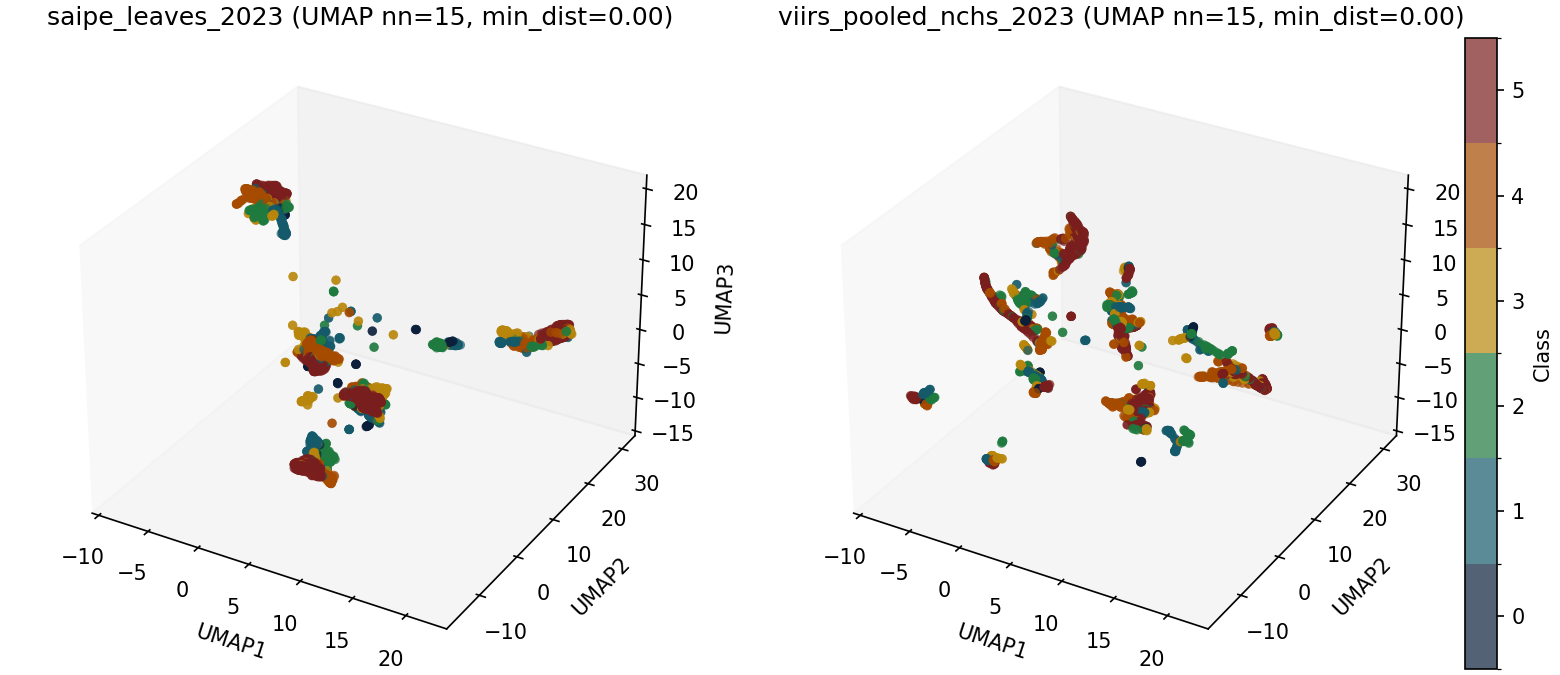
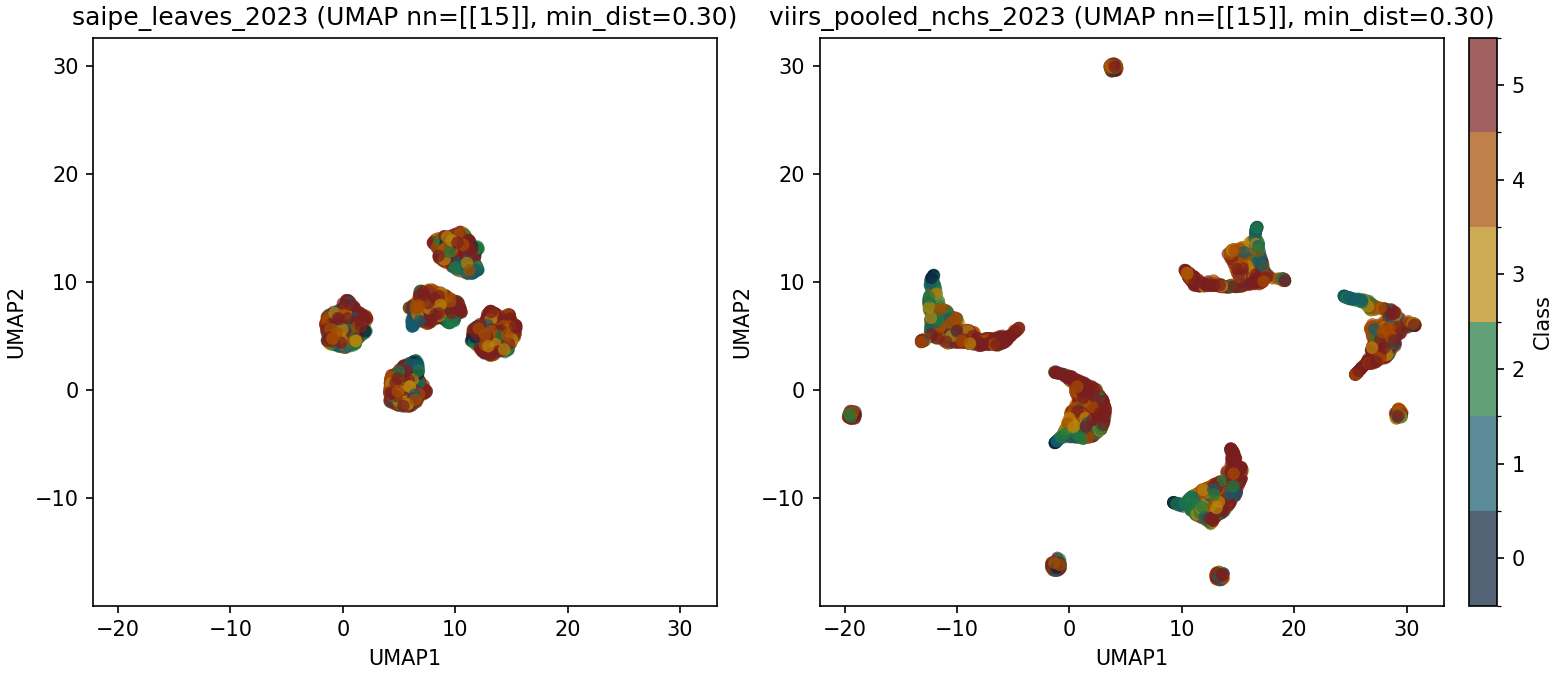
Adjusted visualization to 2d projection. Much clearer results show viirs has ordinal structure while SAIPE clusters (most likely socioeconomics dominates most ordinal structure)

diff --git a/testbench/plots.py b/testbench/plots.py
@@ -145,15 +145,15 @@ def build_embedding_data(*, embedding_dir: str | None = None, embedding_paths=No
         else: 
             name = _mat_str_vector(name)[0]
 
-        n_neighbors = mat.get("n_neighbors")
-        min_dist    = mat.get("min_dist")
+        n_neighbors = mat["n_neighbors"]
+        min_dist    = mat["min_dist"]
 
         entries.append({
             "name": name, 
             "coords": coords,
             "labels": labels,
-            "n_neighbors": int(n_neighbors[0]),
-            "min_dist": int(min_dist[0])
+            "n_neighbors": n_neighbors,
+            "min_dist": min_dist
         })
 
     return {"embeddings": entries}
@@ -412,7 +412,7 @@ def plot_embedding_umap(data):
     if not entries: 
         raise ValueError("no embedding PCA data to plot")
 
-    all_coords = np.vstack([e["coords"][:, :3] for e in entries])
+    all_coords = np.vstack([e["coords"][:, :2] for e in entries])
     mins = all_coords.min(axis=0)
     maxs = all_coords.max(axis=0)
     pad  = 0.05 * (maxs- mins + 1e-9)
@@ -423,7 +423,7 @@ def plot_embedding_umap(data):
     fig = plt.figure(figsize=(5.2 * n, 4.5), constrained_layout=True)
 
     for i, item in enumerate(entries, start=1): 
-        coords = np.asarray(item["coords"][:, :3])
+        coords = np.asarray(item["coords"][:, :2])
         labels = np.asarray(item["labels"]).reshape(-1)
         uniq   = np.unique(labels)
         idx    = np.searchsorted(uniq, labels)
@@ -431,16 +431,15 @@ def plot_embedding_umap(data):
         cmap   = ListedColormap(palette) 
         norm   = BoundaryNorm(np.arange(len(palette) + 1) - 0.5, len(palette))
 
-        ax     = fig.add_subplot(1, n, i, projection="3d")
+        ax     = fig.add_subplot(1, n, i)
         sc     = ax.scatter(
-            coords[:, 0], coords[:, 1], coords[:, 2],
+            coords[:, 0], coords[:, 1],
             c=idx, cmap=cmap, norm=norm,
-            alpha=0.7, linewidths=0, depthshade=True
+            alpha=0.7, linewidths=0
         )
 
         ax.set_xlim(mins[0], maxs[0])
         ax.set_ylim(mins[1], maxs[1])
-        ax.set_zlim(mins[2], maxs[2])
         ax.grid(False)
 
         title = item["name"].strip()
@@ -452,7 +451,6 @@ def plot_embedding_umap(data):
 
         ax.set_xlabel("UMAP1")
         ax.set_ylabel("UMAP2")
-        ax.set_zlabel("UMAP3")
 
         if i == n: 
             cbar = fig.colorbar(sc, ax=ax, fraction=0.046, pad=0.04)

diff --git a/testbench/embedding.py b/testbench/embedding.py
@@ -375,7 +375,7 @@ def test_reduce_all(
     *,
     embedding_paths: list[str] | None = None, 
     out_dir: str | Path | None = None, 
-    n_components: int = 3,
+    n_components: int = 2,
     n_neighbors: int = 15, 
     min_dist: float = 0.3,
     metric: str = "euclidean",
@@ -406,8 +406,8 @@ def test_reduce_all(
             n_neighbors=n_neighbors,
             min_dist=min_dist,
             metric=metric,
-            target_metric="categorical",
-            target_weight=0.6,
+            target_metric="l1",
+            target_weight=0.3,
             n_jobs=-1,
         )
         coords   = reducer.fit_transform(X, y)
